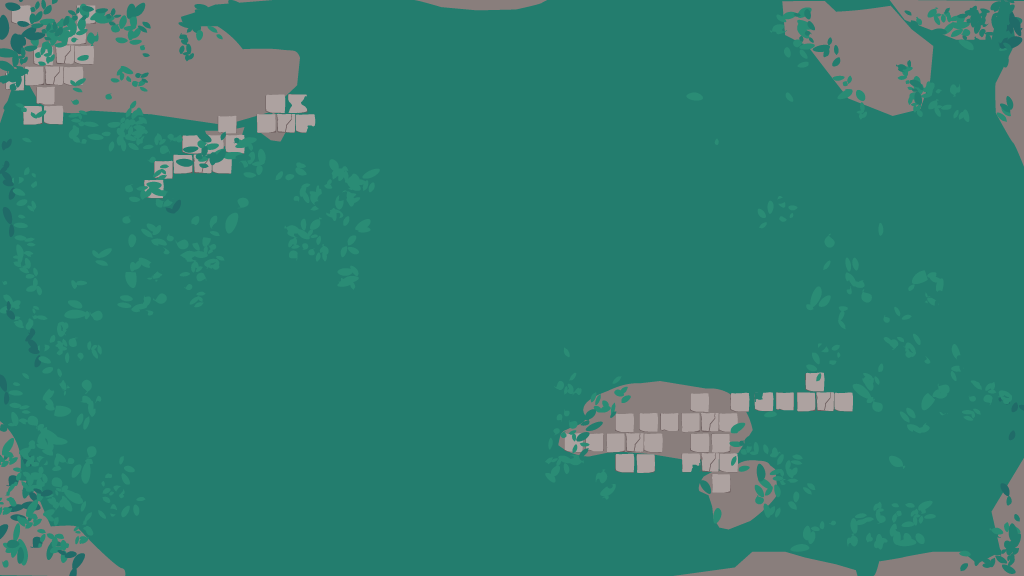
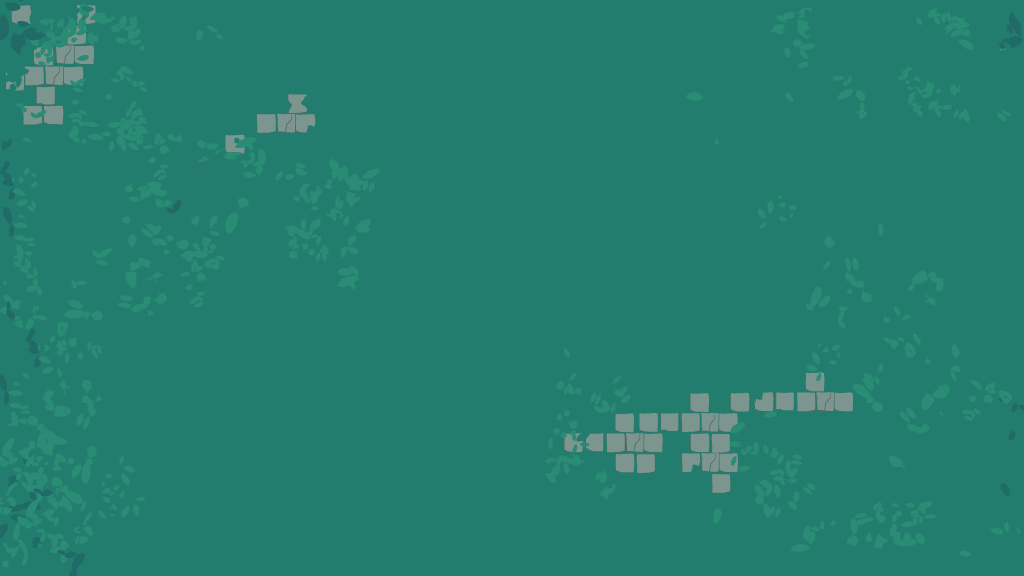
energy pillar works now

diff --git a/core/src/edu/cornell/gdiac/physics/obstacle/EnergyPillar.java b/core/src/edu/cornell/gdiac/physics/obstacle/EnergyPillar.java
@@ -1,7 +1,6 @@
 package edu.cornell.gdiac.physics.obstacle;
 
 import com.badlogic.gdx.graphics.Color;
-import com.badlogic.gdx.physics.box2d.PolygonShape;
 import edu.cornell.gdiac.physics.GameCanvas;
 import edu.cornell.gdiac.util.FilmStrip;
 
@@ -30,6 +29,17 @@ public class EnergyPillar extends BoxObstacle {
 
 
     /**
+     * Gets the filmstrip of the energy pillar radius
+     * @return the fieldstrip of the energypillar
+     */
+    public float getEnergyPillarMajor() {
+        return ((this.energyPillarFieldStrip.getRegionWidth() * (this.chargeProgression / 3f)) / drawScale.x)/2f;
+    }
+    public float getEnergyPillarMinor() {
+        return ((this.energyPillarFieldStrip.getRegionHeight() * (this.chargeProgression / 3f)) / drawScale.y)/2f;
+    }
+
+    /**
      * sets the FilmStrip for the energy pillar
      *
      * @param bodyColorStrip for the energy pillar rune
@@ -52,13 +62,6 @@ public class EnergyPillar extends BoxObstacle {
         this.chargeProgression = chargeProgression;
     }
 
-    public void setEnergypillarRadiusHitBox(float chargeProgression) {
-        PolygonShape s = new PolygonShape();
-        s.setRadius(1);
-        shape = s;
-    }
-
-
     /**
      * Draws the Pillar, Radius, and Charge of Pillar
      *
@@ -73,6 +76,5 @@ public class EnergyPillar extends BoxObstacle {
         canvas.draw(energyPillarStrip, Color.WHITE, energyPillarStrip.getRegionWidth() / 2f, energyPillarStrip.getRegionHeight() / 2f, getX() * drawScale.x, getY() * drawScale.y, getAngle(), 0.3f, 0.3f);
         canvas.draw(energyPillarRune, warningColor, energyPillarStrip.getRegionWidth() / 2f, energyPillarStrip.getRegionHeight() / 2f, getX() * drawScale.x, getY() * drawScale.y, getAngle(), 0.3f, 0.3f);
         canvas.draw(energyPillarFieldStrip, warningColor, energyPillarFieldStrip.getRegionWidth() / 2f, energyPillarFieldStrip.getRegionHeight() / 2f, getX() * drawScale.x, getY() * drawScale.y, getAngle(), chargeProgression / 3, chargeProgression / 3);
-        System.out.println(energyPillarFieldStrip.getRegionWidth() * (chargeProgression / 3));
     }
 }

diff --git a/core/src/edu/cornell/gdiac/physics/GamePlayController.java b/core/src/edu/cornell/gdiac/physics/GamePlayController.java
@@ -429,6 +429,18 @@ public class GamePlayController extends WorldController {
 		*/
 
 
+		// CHECK IF POSSESSED IS IN ENERGY PILLAR RADIUS
+        for(EnergyPillar ep : energyPillars) {
+            System.out.println(possessed.getPosition());
+            System.out.println(ep.getPosition());
+        	if((Math.pow((possessed.getPosition().x - ep.getPosition().x), 2) / Math.pow(ep.getEnergyPillarMajor() + possessed.getWidth() / 2,2)) + ((Math.pow((possessed.getPosition().y - ep.getPosition().y), 2))/(Math.pow(ep.getEnergyPillarMinor() + possessed.getHeight() / 2, 2))) <= 1)  {
+        	    possessed.setCurrentCharge((int)possessed.getMaxCharge());
+			}
+		}
+
+
+
+
 		// Update sounds
 		SoundController.getInstance().update();
 

diff --git a/core/src/edu/cornell/gdiac/physics/LevelDesignerMode.java b/core/src/edu/cornell/gdiac/physics/LevelDesignerMode.java
@@ -1135,7 +1135,6 @@ public class LevelDesignerMode extends WorldController {
 				Obstacle selection = selector.getObstacle();
 				if (selection.getName() == "host") {
 					if (((HostModel) selection).getCurrentCharge() > MIN_CHARGE_CAPACITY) {
-						System.out.println(((HostModel) selection).getCurrentCharge());
 						((HostModel) selection).setCurrentCharge(((HostModel) selection).getCurrentCharge() - 10);
 						((HostModel) selection).setChargeStripFrame(((HostModel) selection).getCurrentCharge());
 					}

diff --git a/core/src/edu/cornell/gdiac/physics/host/HostController.java b/core/src/edu/cornell/gdiac/physics/host/HostController.java
@@ -187,7 +187,6 @@ public class HostController {
 
                         for(EnergyPillar ep : energyPillars) {
                             ep.setChargeProgression(chargeProgression);
-                            ep.setEnergypillarRadiusHitBox(chargeProgression);
                         }
 
                         float obstacleFactor = 1;
